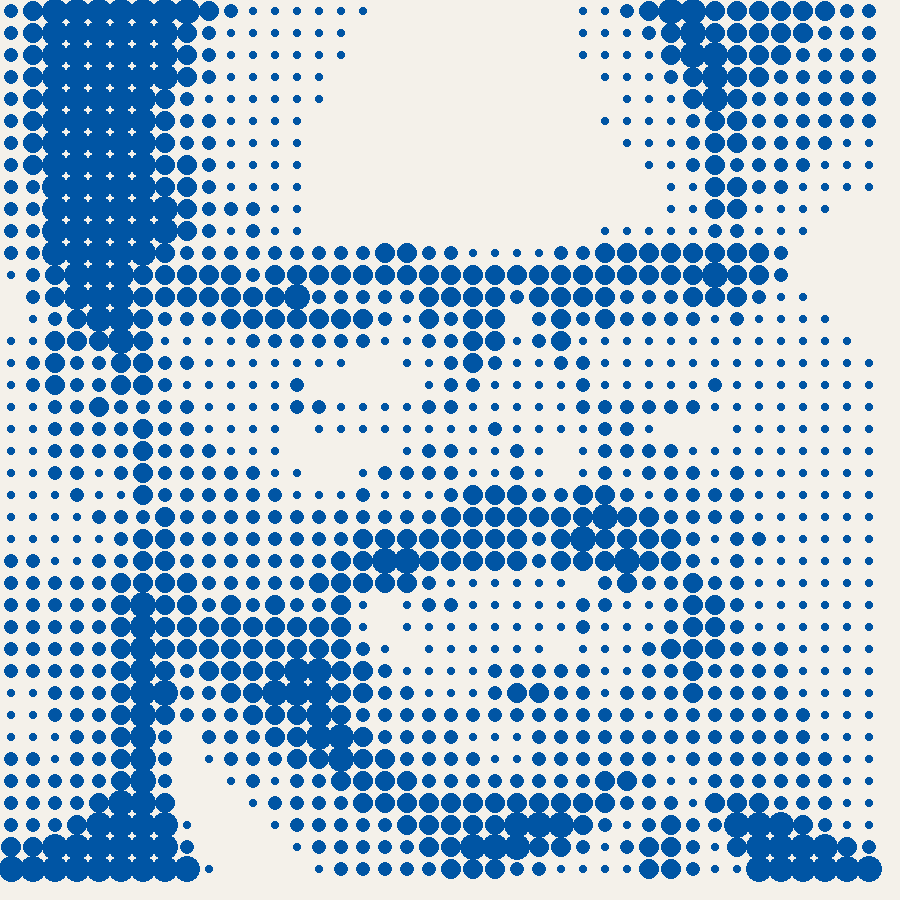
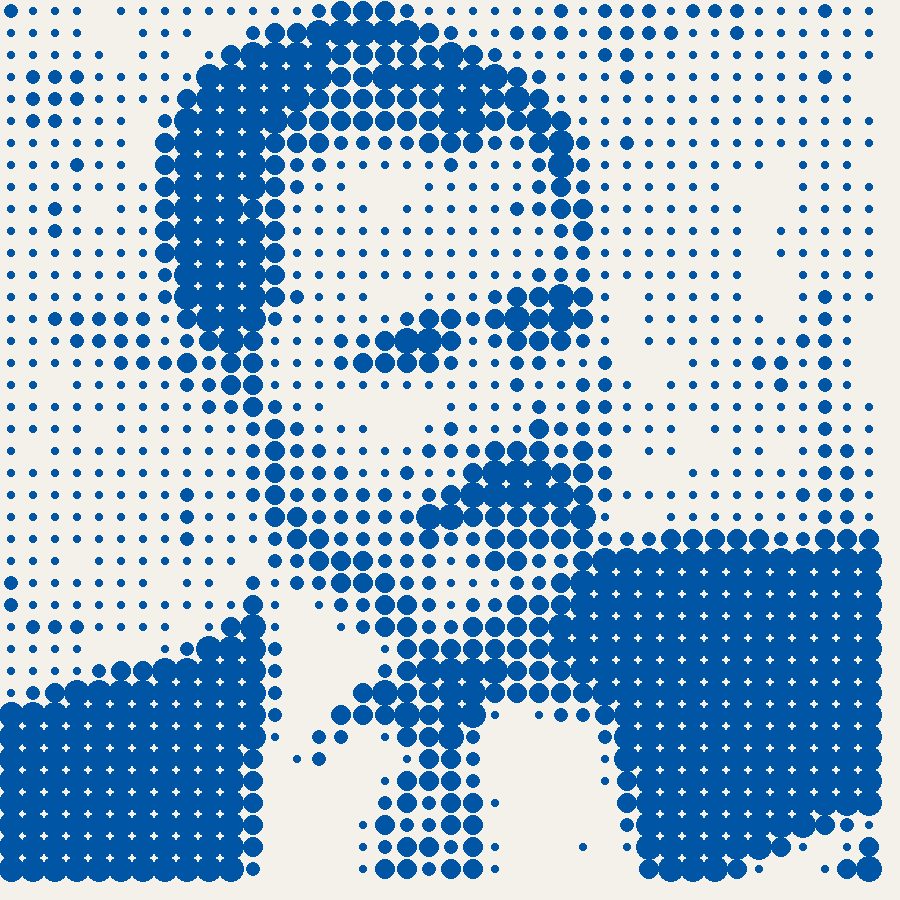
SEO/GEO pass + swap Chris portrait, loosen Reilly crop
SEO:
- robots.txt allow-all with explicit allowlist for AI crawlers (GPTBot,
  ClaudeBot, PerplexityBot, etc.) and social preview bots
  (facebookexternalhit, Twitterbot, LinkedInBot, Slackbot, Discordbot,
  WhatsApp, TelegramBot).
- jekyll-sitemap plugin generates sitemap.xml with all public pages.
- Canonical URLs on every page.
- Apple touch icon (180x180) in the brand palette.
- Per-page meta descriptions.

GEO:
- JSON-LD Organization + WebSite + FAQPage on homepage (the 5 Q&As
  become extractable facts for AI answer engines).
- WebPage schema on sub-pages.

Portraits:
- Use chris-source2.jpeg for Chris.
- Loosen Reilly's crop.

diff --git a/_layouts/default.html b/_layouts/default.html
@@ -6,6 +6,8 @@
   <title>{% if page.title and page.url != "/" %}{{ page.title }} — {{ site.title }}{% else %}{{ site.title }} — {{ site.description }}{% endif %}</title>
   <meta name="description" content="{{ page.description | default: site.description }}">
   <link rel="icon" href="{{ site.favicon_ico | relative_url }}">
+  <link rel="apple-touch-icon" sizes="180x180" href="{{ '/assets/images/apple-touch-icon.png' | relative_url }}">
+  <link rel="canonical" href="{{ page.url | absolute_url }}">
   <link rel="stylesheet" href="{{ '/assets/css/style.css' | relative_url }}">
 
   <meta property="og:title" content="{% if page.title and page.url != '/' %}{{ page.title }} — {{ site.title }}{% else %}{{ site.title }} — {{ site.description }}{% endif %}">
@@ -21,6 +23,83 @@
   <meta name="twitter:title" content="{% if page.title and page.url != '/' %}{{ page.title }} — {{ site.title }}{% else %}{{ site.title }} — {{ site.description }}{% endif %}">
   <meta name="twitter:description" content="{{ page.description | default: site.description }}">
   <meta name="twitter:image" content="{{ '/assets/images/og-image.png' | absolute_url }}">
+
+  {% if page.url == '/' %}
+  <script type="application/ld+json">
+  {
+    "@context": "https://schema.org",
+    "@graph": [
+      {
+        "@type": "Organization",
+        "@id": "{{ site.url }}/#organization",
+        "name": "Tuebor",
+        "url": "{{ site.url }}/",
+        "logo": "{{ '/assets/images/og-image.png' | absolute_url }}",
+        "description": "An honor-pledge commitment by the people who really love Michigan to invest in one State of Michigan-based business per year.",
+        "foundingDate": "2023",
+        "founder": [
+          { "@type": "Person", "name": "Reilly Brennan", "sameAs": "https://www.linkedin.com/in/reillybrennan/" },
+          { "@type": "Person", "name": "Chris Thomas", "sameAs": "https://www.linkedin.com/in/christopherthomas/" }
+        ],
+        "areaServed": { "@type": "State", "name": "Michigan" },
+        "sameAs": [ "https://linkedin.com/company/tuebororg" ]
+      },
+      {
+        "@type": "WebSite",
+        "@id": "{{ site.url }}/#website",
+        "url": "{{ site.url }}/",
+        "name": "Tuebor",
+        "description": "{{ site.description }}",
+        "publisher": { "@id": "{{ site.url }}/#organization" },
+        "inLanguage": "en-US"
+      },
+      {
+        "@type": "FAQPage",
+        "mainEntity": [
+          {
+            "@type": "Question",
+            "name": "What is Tuebor?",
+            "acceptedAnswer": { "@type": "Answer", "text": "Tuebor is an honor-pledge commitment to invest in at least one State of Michigan-based business per year." }
+          },
+          {
+            "@type": "Question",
+            "name": "What is the goal of Tuebor?",
+            "acceptedAnswer": { "@type": "Answer", "text": "To increase the number of Michigan investors backing Michigan businesses." }
+          },
+          {
+            "@type": "Question",
+            "name": "Are there fees or costs associated with Tuebor?",
+            "acceptedAnswer": { "@type": "Answer", "text": "No. Tuebor is an honor pledge. Tuebor does not collect fees and does not in any way enter the flow of money when you make an investment. Tuebor does not make investment recommendations and is not an investment advisor." }
+          },
+          {
+            "@type": "Question",
+            "name": "How much money do I need to invest?",
+            "acceptedAnswer": { "@type": "Answer", "text": "There is no minimum. An investment of $10 counts the same as one of $1,000,000. All efforts count toward the goal of increasing the number of Michigan investors backing Michigan businesses." }
+          },
+          {
+            "@type": "Question",
+            "name": "How do I take the Tuebor pledge?",
+            "acceptedAnswer": { "@type": "Answer", "text": "Make an investment in a Michigan business during this calendar year, then list Tuebor on your LinkedIn profile as a Pledge Investor to make your commitment public." }
+          }
+        ]
+      }
+    ]
+  }
+  </script>
+  {% else %}
+  <script type="application/ld+json">
+  {
+    "@context": "https://schema.org",
+    "@type": "WebPage",
+    "name": "{{ page.title }} — Tuebor",
+    "url": "{{ page.url | absolute_url }}",
+    "description": "{{ page.description | default: site.description }}",
+    "isPartOf": { "@type": "WebSite", "@id": "{{ site.url }}/#website", "name": "Tuebor", "url": "{{ site.url }}/" },
+    "publisher": { "@type": "Organization", "name": "Tuebor", "url": "{{ site.url }}/" },
+    "inLanguage": "en-US"
+  }
+  </script>
+  {% endif %}
 </head>
 <body>
   <header class="site-header{% if page.url == '/' %} site-header--home{% endif %}">

diff --git a/assets/images/_apple_icon.py b/assets/images/_apple_icon.py
@@ -1,0 +1,32 @@
+"""Generate a 180x180 Apple touch icon: blue field, white T, tan dot accent."""
+from PIL import Image, ImageDraw, ImageFont
+from pathlib import Path
+
+HERE = Path(__file__).resolve().parent
+FONT = HERE.parent / "fonts" / "BidenBold-Regular.otf"
+
+S = 180
+BLUE = (0, 85, 164)
+TAN = (196, 161, 94)
+WHITE = (255, 255, 255)
+
+img = Image.new("RGB", (S, S), BLUE)
+d = ImageDraw.Draw(img)
+
+# Big white "T"
+f = ImageFont.truetype(str(FONT), 200)
+bbox = d.textbbox((0, 0), "T", font=f)
+tw = bbox[2] - bbox[0]
+th = bbox[3] - bbox[1]
+x = (S - tw) // 2 - bbox[0]
+y = (S - th) // 2 - bbox[1] - 6
+d.text((x, y), "T", font=f, fill=WHITE)
+
+# Tan dot bottom-right
+r = 14
+pad = 22
+d.rectangle((S - pad - r, S - pad - r, S - pad, S - pad), fill=TAN)
+
+out = HERE / "apple-touch-icon.png"
+img.save(out, optimize=True)
+print(f"wrote {out}")

diff --git a/assets/images/_dither.py b/assets/images/_dither.py
@@ -24,9 +24,9 @@ OUT_SIZE = 900  # @2x; display size ~450px
 
 # Tuned so both subjects land with similar face scale after cropping.
 SOURCES = [
-    # filename,           out_prefix, face_y, scale
-    ("reilly-source.jpg", "reilly",   0.38,   0.48),
-    ("chris-source.jpeg", "chris",    0.44,   0.86),
+    # filename,            out_prefix, face_y, scale
+    ("reilly-source.jpg",  "reilly",   0.40,   0.66),
+    ("chris-source2.jpeg", "chris",    0.40,   0.72),
 ]
 
 

diff --git a/origin.md b/origin.md
@@ -1,6 +1,7 @@
 ---
 layout: default
 title: Origin
+description: Tuebor is the word on Michigan's state flag. The Tuebor pledge was started in 2023 by investors Reilly Brennan and Chris Thomas as a call to arms for Michigan investors backing Michigan founders.
 eyebrow: 02 / Origin
 display_title: Origin.
 permalink: /origin.html

diff --git a/makepublic.md b/makepublic.md
@@ -1,6 +1,7 @@
 ---
 layout: default
 title: Make your pledge public
+description: Tell the world you've taken the Tuebor pledge by listing it on your LinkedIn profile as a Pledge Investor.
 eyebrow: 03 / Pledge · Make it public
 display_title: Make it public.
 permalink: /howto/makepublic

diff --git a/legal-disclaimer.md b/legal-disclaimer.md
@@ -1,6 +1,7 @@
 ---
 layout: default
 title: Legal Disclaimer
+description: Tuebor is provided for informational purposes only. Nothing on this site constitutes investment, legal, tax, or financial advice.
 eyebrow: 04 / Legal
 display_title: Legal.
 permalink: /legal-disclaimer.html

diff --git a/howto.md b/howto.md
@@ -1,6 +1,7 @@
 ---
 layout: default
 title: How To
+description: Two steps to take the Tuebor pledge. Invest in a Michigan business this year. Do it again next year. No paperwork, no fees.
 eyebrow: 03 / Pledge
 display_title: Take the pledge.
 permalink: /howto.html
